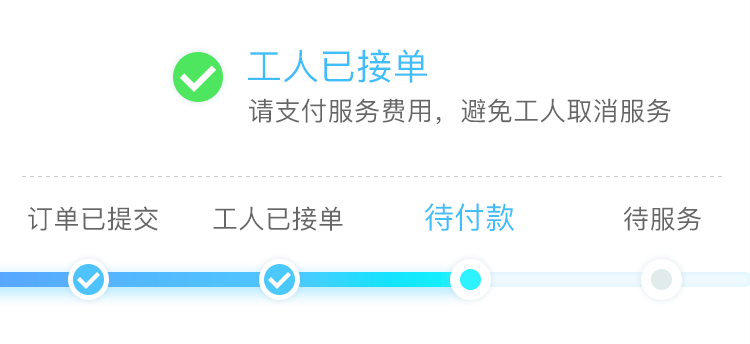
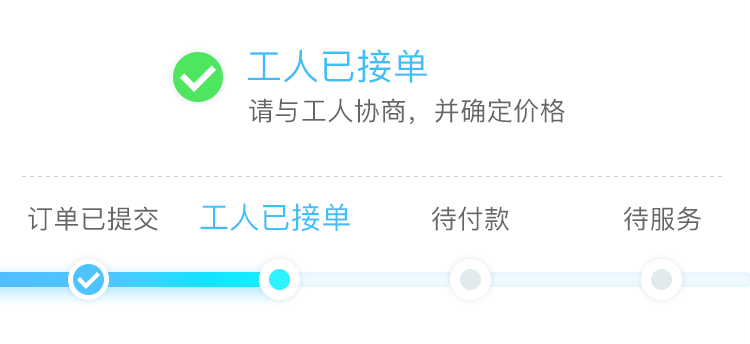
订单列表状态现在可以正确显示

diff --git a/wapapp/components/order/Order_list.vue b/wapapp/components/order/Order_list.vue
@@ -22,21 +22,27 @@
 							<span class="fc0">{{item.Service.ServiceName}}</span>
 						</div>
 						<div class="vue-cell__bd"></div>
-						<div class="vue-cell__ft blue" v-show="item.situation === 10">
-							<span>订单已提交</span>
-						</div>
-						<div class="vue-cell__ft blue" v-show="item.situation === 100 || item.situation === 101">
-							<span>等待工人接单</span>
-						</div>
-						<div class="vue-cell__ft blue" v-show="item.situation === 200 || item.situation === 201">
-							<span>待工人服务</span>
-						</div>
-						<div class="vue-cell__ft blue" v-show="item.situation === 301 || item.situation === 401">
-							<span>订单已完成</span>
-						</div>
-						<div class="vue-cell__ft blue" v-show="item.situation === 5011">
-							<span>退款中</span>
-						</div>
+            <div class="vue-cell__ft blue" v-show="item.situation === 101 || item.situation === 1003">
+              <span>待接单</span>
+            </div>
+            <div class="vue-cell__ft blue" v-show="item.situation === 100 || item.situation === 210 || item.situation === 2103">
+              <span>待付款</span>
+            </div>
+            <div class="vue-cell__ft blue" v-show="item.situation === 211 || item.situation === 2113">
+              <span>待服务</span>
+            </div>
+            <div class="vue-cell__ft blue" v-show="item.situation === 311">
+              <span>待确认</span>
+            </div>
+            <div class="vue-cell__ft blue" v-show="item.situation === 411">
+              <span>待评价</span>
+            </div>
+            <div class="vue-cell__ft blue" v-show="item.situation === 501 || item.situation === 511">
+              <span>退款中</span>
+            </div>
+            <div class="vue-cell__ft blue" v-show="item.situation === 600 || item.situation === 601 || item.situation === 610 || item.situation === 611">
+              <span>已取消</span>
+            </div>
 					</div>
 				</div>
 				<div class="vue-panel__bd" @click="routerTo(item.OrderId)">
@@ -70,24 +76,24 @@
 							<div class="vue-cell__bd">
 								<p class="fc9">服务价格</p>
 							</div>
+              <div class="vue-cell__ft" v-show="!item.TotalPrice && !item.StartingPrice && !item.Price">
+                面议
+              </div>
 							<div class="vue-cell__ft" v-show="item.Price && item.TotalPrice">
 								¥{{item.Price}}/{{item.UnitName}} &nbsp;x{{item.Total}}
-							</div>
-							<div class="vue-cell__ft" v-show="!item.Price && !item.StartingPrice">
-								面议
 							</div>
 							<div class="vue-cell__ft" v-show="!item.Price && item.StartingPrice">
 								¥{{item.StartingPrice}}元&nbsp;起
 							</div>
 						</div>
-						<div class="vue-cell" style="padding-top:5px;" v-show="item.situation === 100 || item.situation === 200">
+						<div class="vue-cell" style="padding-top:5px;" v-show="item.IsPayOff == 0">
 							<div class="vue-cell__bd"></div>
 							<div class="vue-cell__ft">
 								 <span >待支付：</span>
 								<span class="red f16">¥ {{item.payable}}</span>
 							</div>
 						</div>
-						<div class="vue-cell" style="padding-top:5px;" v-show="item.situation === 101 && item.situation === 201 && item.situation === 301 && item.situation === 401">
+						<div class="vue-cell" style="padding-top:5px;" v-show="item.IsPayOff == 1">
 							<div class="vue-cell__bd"></div>
 							<div class="vue-cell__ft">
 								 <span >实付：</span>
@@ -99,10 +105,10 @@
 					<div class="vue-cell" style="padding:5px 15px;">
 						<div class="vue-cell__bd"></div>
 						<div class="vue-cell_ft">
-							<button @click="delOrder(item.OrderId)" v-show="item.situation === 50" class="vue-btn vue-btn_plain-default">删除订单</button>
-			        <button @click="cancelOrder(item.OrderId)" v-show="parseInt(item.OrderStatus)<=14" class="vue-btn vue-btn_plain-default">取消订单</button>
-			        <button @click="payOrder(item.OrderId)" v-show="item.situation === 100 || item.situation === 200" class="vue-btn vue-btn_plain-primary">支付</button>
-			        <button @click="sureOrder(item.OrderId)" v-show="item.situation === 401" class="vue-btn vue-btn_plain-success">确认服务完成</button>
+							<button @click="delOrder(item.OrderId)" v-show="item.situation === 600 || item.situation === 601 || item.situation === 610 || item.situation === 611" class="vue-btn vue-btn_plain-default">删除订单</button>
+			        <button @click="cancelOrder(item.OrderId)" v-show="item.situation === 501 || item.situation === 511" class="vue-btn vue-btn_plain-default">取消订单</button>
+			        <button @click="payOrder(item.OrderId)" v-show="item.IsPayOff == 0 && item.situation < 300" class="vue-btn vue-btn_plain-primary">支付</button>
+			        <button @click="sureOrder(item.OrderId)" v-show="item.situation === 311" class="vue-btn vue-btn_plain-success">确认服务完成</button>
 						</div>
 					</div>
 				</div>
@@ -194,8 +200,9 @@ export default {
         if (res.data.Meta.ErrorCode === '0') {
           if (res.data.Body.OrderList && res.data.Body.OrderList.length > 0) {
             res.data.Body.OrderList.map((v, i, arry) => {
-              arry[i]['situation'] = this.situation(v.OrderStatus, v.IsPayOff, v.RefundStatus);
-              arry[i]['payable'] = this.payable(v.ActivityNgs, v.DiscountAmount, v.TotalPrice);
+              let isAccept = parseInt(v.ServiceProviderType) === 0 ? 0 : 1;
+              arry[i]['situation'] = this.situation(v.OrderStatus, v.RefundStatus, v.IsPayOff, v.IsNegotiable, isAccept);
+              arry[i]['payable'] = this.payable(v.ActivityNgs, v.DiscountAmount, v.TotalPrice, v.StartingPrice);
               arry[i]['serviceStartTime'] = this.formatTime(v.Service.ServiceStartTime);
             })
             this.list = this.list.concat(res.data.Body.OrderList);
@@ -304,53 +311,174 @@ export default {
         });
       }
     },
-    situation(orderStatus, isPayOff, refundStatus) {
-      // 传入订单状态，是否支付，是否退款
-      // 订单提交 && 未付款 需要指派 订单已提交---待付款
-      if (orderStatus === '1' && isPayOff === '0') {
-        return 10;
+    situation(orderStatus, refundStatus, isPayOff, isNegotiable, isAccept) {
+      //状态码返回规范
+      //状态码由三位数组成，其中
+      //百位：1:待接单 2:待服务 3:待确认 4:已完成 5.退款中 6.已退款
+      //十位：0:工人未接单 1:工人已接单
+      //个位：0:未付款 1:已付款
+
+      //例外：面议单中顺序为先等工人接单再付款，为保证一致，在部分状态码后补3以区别（并非所有面议单状态码后都补3）
+
+      //orderStatus:订单状态码（见接口文档）
+      //refundStatus:退款码（见接口文档），如果未退款则为空
+      //isPayOff:是否支付（0否1是）
+      //isNegotiable:是否面议（0否1是）
+      //isAccept:工人是否接单（0否1是）
+
+      if (isNegotiable == 0) {
+        //定价
+
+        //定价，未付款
+        if (isPayOff == 0) {
+          //取消订单
+          if (orderStatus == 50) {
+            //定价，未付款，工人未接，取消中/已取消
+            if (isAccept == 0) {
+              return 600;
+            }
+
+            //定价，未付款，工人已接，取消中/已取消
+            if (isAccept == 1) {
+              return 610;
+            }
+          }
+
+          //未取消订单
+          //定价，未付款
+          if (refundStatus == '' && orderStatus != 50) {
+            return 100;
+          }
+        }
+
+        //定价，已付款
+        if (isPayOff == 1) {
+          //取消订单
+          if (orderStatus == 50) {
+            //定价，已付款，工人未接，退款中
+            if (refundStatus == 1 && isAccept == 0) {
+              return 501;
+            }
+
+            //定价，已付款，工人已接，退款中
+            if (refundStatus == 1 && isAccept == 1) {
+              return 511;
+            }
+
+            //定价，已付款，工人未接，已退款
+            if (refundStatus == 2 && isAccept == 0) {
+              return 601;
+            }
+
+            //定价，已付款，工人已接，已退款
+            if (refundStatus == 2 && isAccept == 1) {
+              return 611;
+            }
+          }
+
+          //未取消订单
+          if (refundStatus == '') {
+            //定价，已付款，工人未接
+            if (isAccept == 0 || (orderStatus == 1 || orderStatus == 10)) {
+              return 101;
+            }
+
+            //定价，已付款，工人已接，待服务
+            if (orderStatus == 20 && isAccept == 1) {
+              return 211;
+            }
+
+            //定价，已付款，工人已接，服务完成，待确认
+            if (orderStatus == 30 && isAccept == 1) {
+              return 311;
+            }
+
+            //定价，已付款，工人已接，服务完成，已确认
+            if (orderStatus == 40 && isAccept == 1) {
+              return 411;
+            }
+          }
+        }
       }
-      // 订单已提交---待付款
-      if (orderStatus === '10' && isPayOff === '0') {
-        return 100;
+
+      if (isNegotiable == 1) {
+        //面议单
+
+        //面议单，未付款
+        if (isPayOff == 0) {
+          //取消订单
+          //面议单，未付款，取消中/已取消
+          if (orderStatus == 50) {
+            return 600;
+          }
+
+          //未取消订单
+          if (refundStatus == '') {
+            //面议单，未付款，工人未接单
+            if ((orderStatus == 1 || orderStatus == 10) && isAccept == 0) {
+              return 1003;
+            }
+
+            //面议单，未付款，工人已接单
+            if (orderStatus == 20 && isAccept == 1) {
+              return 210;
+            }
+
+            //面议单，未付款，工人已接单，待确认
+            if (orderStatus == 30 && isAccept == 1) {
+              return 2103;
+            }
+          }
+        }
+
+        //面议单，已付款
+        if (isPayOff == 1 && isAccept == 1) {
+          //取消订单
+          if (orderStatus == 50) {
+            //面议单，已付款，取消中
+            if (refundStatus == 1 && orderStatus == 50) {
+              return 511;
+            }
+
+            //面议单，已付款，已取消
+            if (refundStatus == 2 && orderStatus == 50) {
+              return 611;
+            }
+          }
+
+          //未取消订单
+          if (refundStatus == '') {
+            //面议单，已付款，待服务
+            if (orderStatus == 20) {
+              return 211;
+            }
+
+            if (orderStatus == 30) {
+              return 311;
+            }
+
+            //面议单，已付款，已完成
+            if (orderStatus == 40) {
+              return 411;
+            }
+          }
+        }
       }
-      // 订单已提交---已付款---待工人接单
-      if (orderStatus === '10' && isPayOff === '1') {
-        return 101;
-      }
-      // 订单已提交---未付款---服务中
-      if (orderStatus === '20' && isPayOff === '0') {
-        return 200;
-      }
-      // 订单已提交---已付款---服务中
-      if (orderStatus === '20' && isPayOff === '1') {
-        return 201;
-      }
-      // 订单已提交---已付款---完成服务
-      if (orderStatus === '30' && isPayOff === '1') {
-        return 301;
-      }
-      // 订单已提交---已付款---服务已完成
-      if (orderStatus === '40' && isPayOff === '1') {
-        return 401;
-      }
-      // 订单已提交---订单取消
-      if (orderStatus === '50') {
-        return 50;
-      }
-      // 订单已提交---退款中
-      if (orderStatus === '1' && refundStatus === '2') {
-        // 完成退款
-        return 5012
-      } else {
-        // 退款中
-        return 5011;
-      }
+
+      return 'error'
     },
-    payable(activityNgs, discountAmount, totalPrice) {
+    payable(activityNgs, discountAmount, totalPrice, startPrice) {
       // 传入活动，红包折扣，订单总计
       // 返回 计算优惠后的价格
       // 订单优惠后价格 应付价格 0 满减 ，1 满返
+      if(!totalPrice) {
+        if(startPrice != null || startPrice != '') {
+          return startPrice + '起';
+        } else {
+          return '面议';
+        }
+      }
+
       let discountList = [];
       if (activityNgs.ServiceTypeRules && activityNgs.ServiceTypeRules.length > 0) {
         activityNgs.ServiceTypeRules.map((v) => {
@@ -381,6 +509,8 @@ export default {
         } else {
           return totalPrice - discountSum;
         }
+      } else {
+        return totalPrice;
       }
     },
     formatTime(times) {
@@ -405,6 +535,9 @@ export default {
       this.list = [];
       this.onInfinite();
     }
+  },
+  mounted() {
+    this.onInfinite();
   },
   computed: {
     ...mapState(['Token'])

diff --git a/wapapp/components/order/Order_detail.vue b/wapapp/components/order/Order_detail.vue
@@ -4,19 +4,19 @@
     <div class="weui-cell" style="padding:0;">
       <div class="weui-cell__bd">
         <img v-show="situation == 100" style="width:100%;" src="../../static/images/100.png" alt="">
-        <img v-show="situation == 3100" style="width:100%;" src="../../static/images/3100.png" alt="">
+        <img v-show="situation == 1003" style="width:100%;" src="../../static/images/1003.png" alt="">
         <img v-show="situation == 101" style="width:100%;" src="../../static/images/101.png" alt="">
         <img v-show="situation == 210" style="width:100%;" src="../../static/images/210.png" alt="">
+        <img v-show="situation == 2103" style="width:100%;" src="../../static/images/2103.png" alt="">
         <img v-show="situation == 211" style="width:100%;" src="../../static/images/211.png" alt="">
-        <img v-show="situation == 301" style="width:100%;" src="../../static/images/301.png" alt="">
-        <img v-show="situation == 310" style="width:100%;" src="../../static/images/310.png" alt="">
+        <img v-show="situation == 2113" style="width:100%;" src="../../static/images/2113.png" alt="">
         <img v-show="situation == 311" style="width:100%;" src="../../static/images/311.png" alt="">
         <img v-show="situation == 411" style="width:100%;" src="../../static/images/411.png" alt="">
-        <img v-show="situation == 500" style="width:100%;" src="../../static/images/500.png" alt="">
         <img v-show="situation == 501" style="width:100%;" src="../../static/images/501.png" alt="">
-        <img v-show="situation == 510" style="width:100%;" src="../../static/images/510.png" alt="">
         <img v-show="situation == 511" style="width:100%;" src="../../static/images/511.png" alt="">
+        <img v-show="situation == 600" style="width:100%;" src="../../static/images/600.png" alt="">
         <img v-show="situation == 601" style="width:100%;" src="../../static/images/601.png" alt="">
+        <img v-show="situation == 610" style="width:100%;" src="../../static/images/610.png" alt="">
         <img v-show="situation == 611" style="width:100%;" src="../../static/images/611.png" alt="">
       </div>
     </div>
@@ -37,7 +37,7 @@
     </div>
     <div class="weui-cell">
       <div class="weui-cell__bd">
-        <p>服务类型{{ situation }}</p>
+        <p>服务类型</p>
       </div>
       <div class="weui-cell__ft">
         {{od.Service.ServiceName}}
@@ -510,7 +510,7 @@ export default {
           if (refundStatus == '') {
             //面议单，未付款，工人未接单
             if ((orderStatus == 1 || orderStatus == 10) && isAccept == 0) {
-              return 3100;
+              return 1003;
             }
 
             //面议单，未付款，工人已接单
@@ -556,7 +556,6 @@ export default {
       }
 
       return 'error'
-
     },
     payable() {
       // 订单优惠后价格 应付价格 0 满减 ，1 满返
